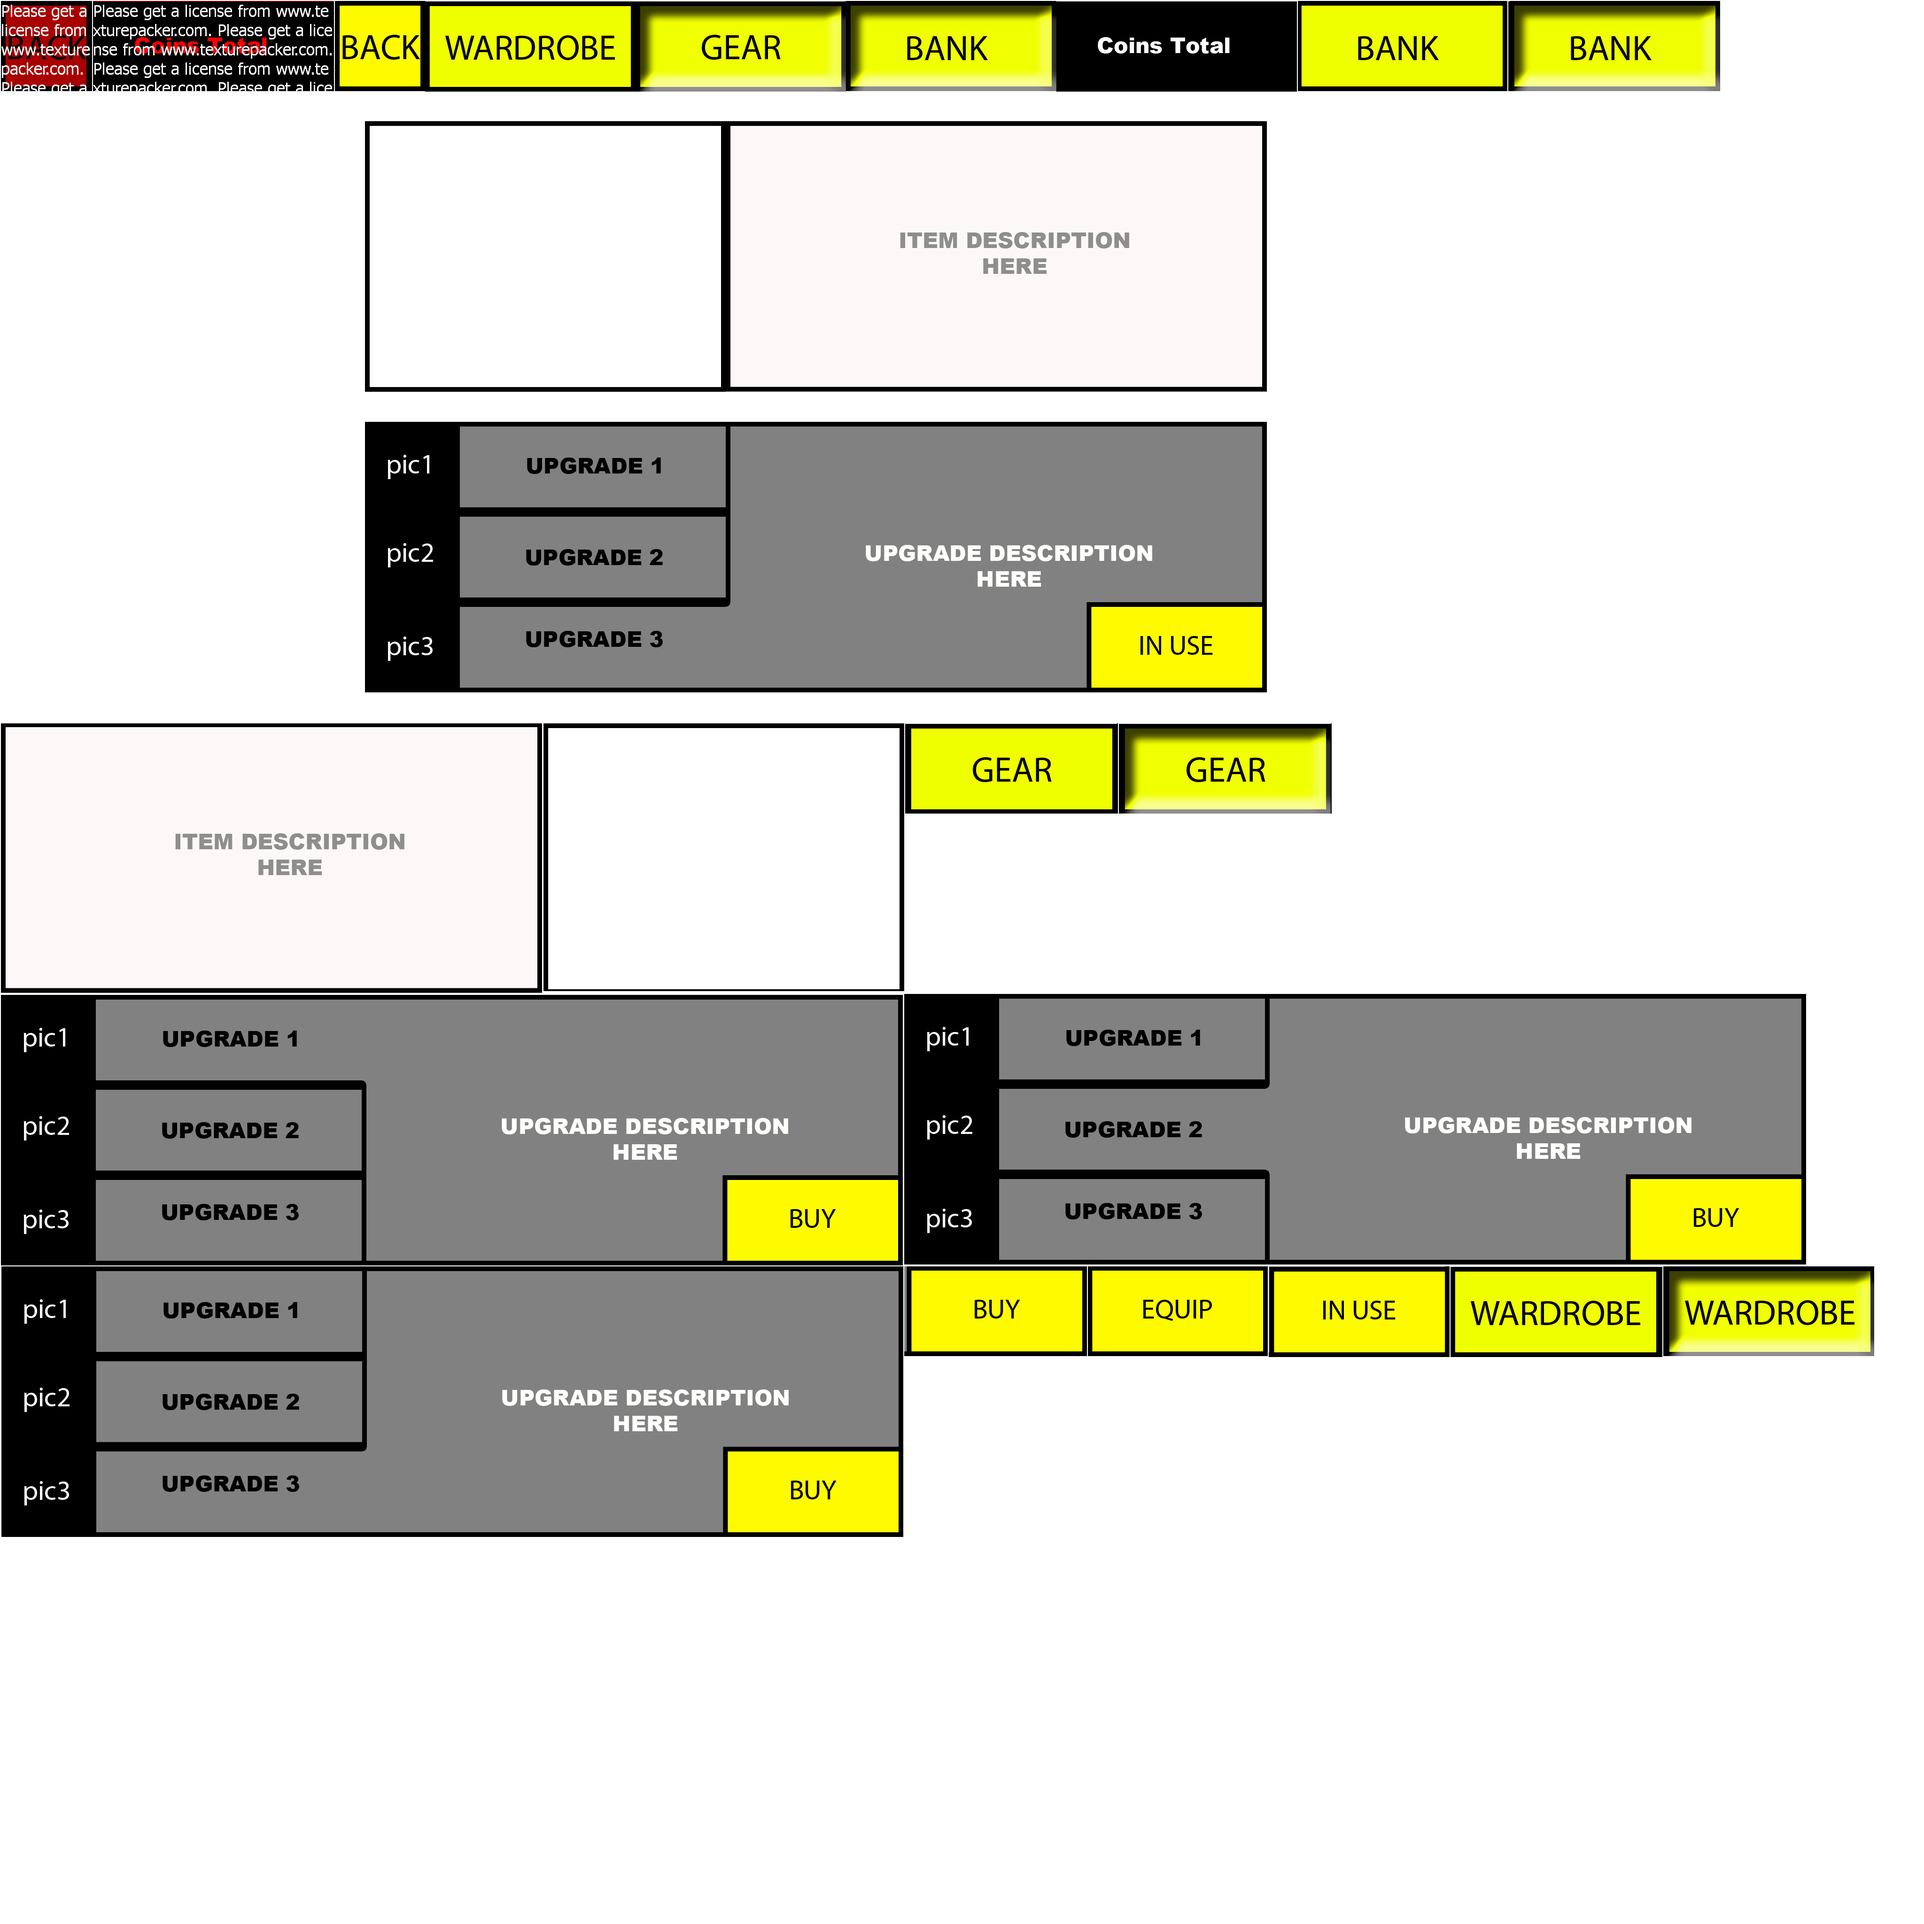
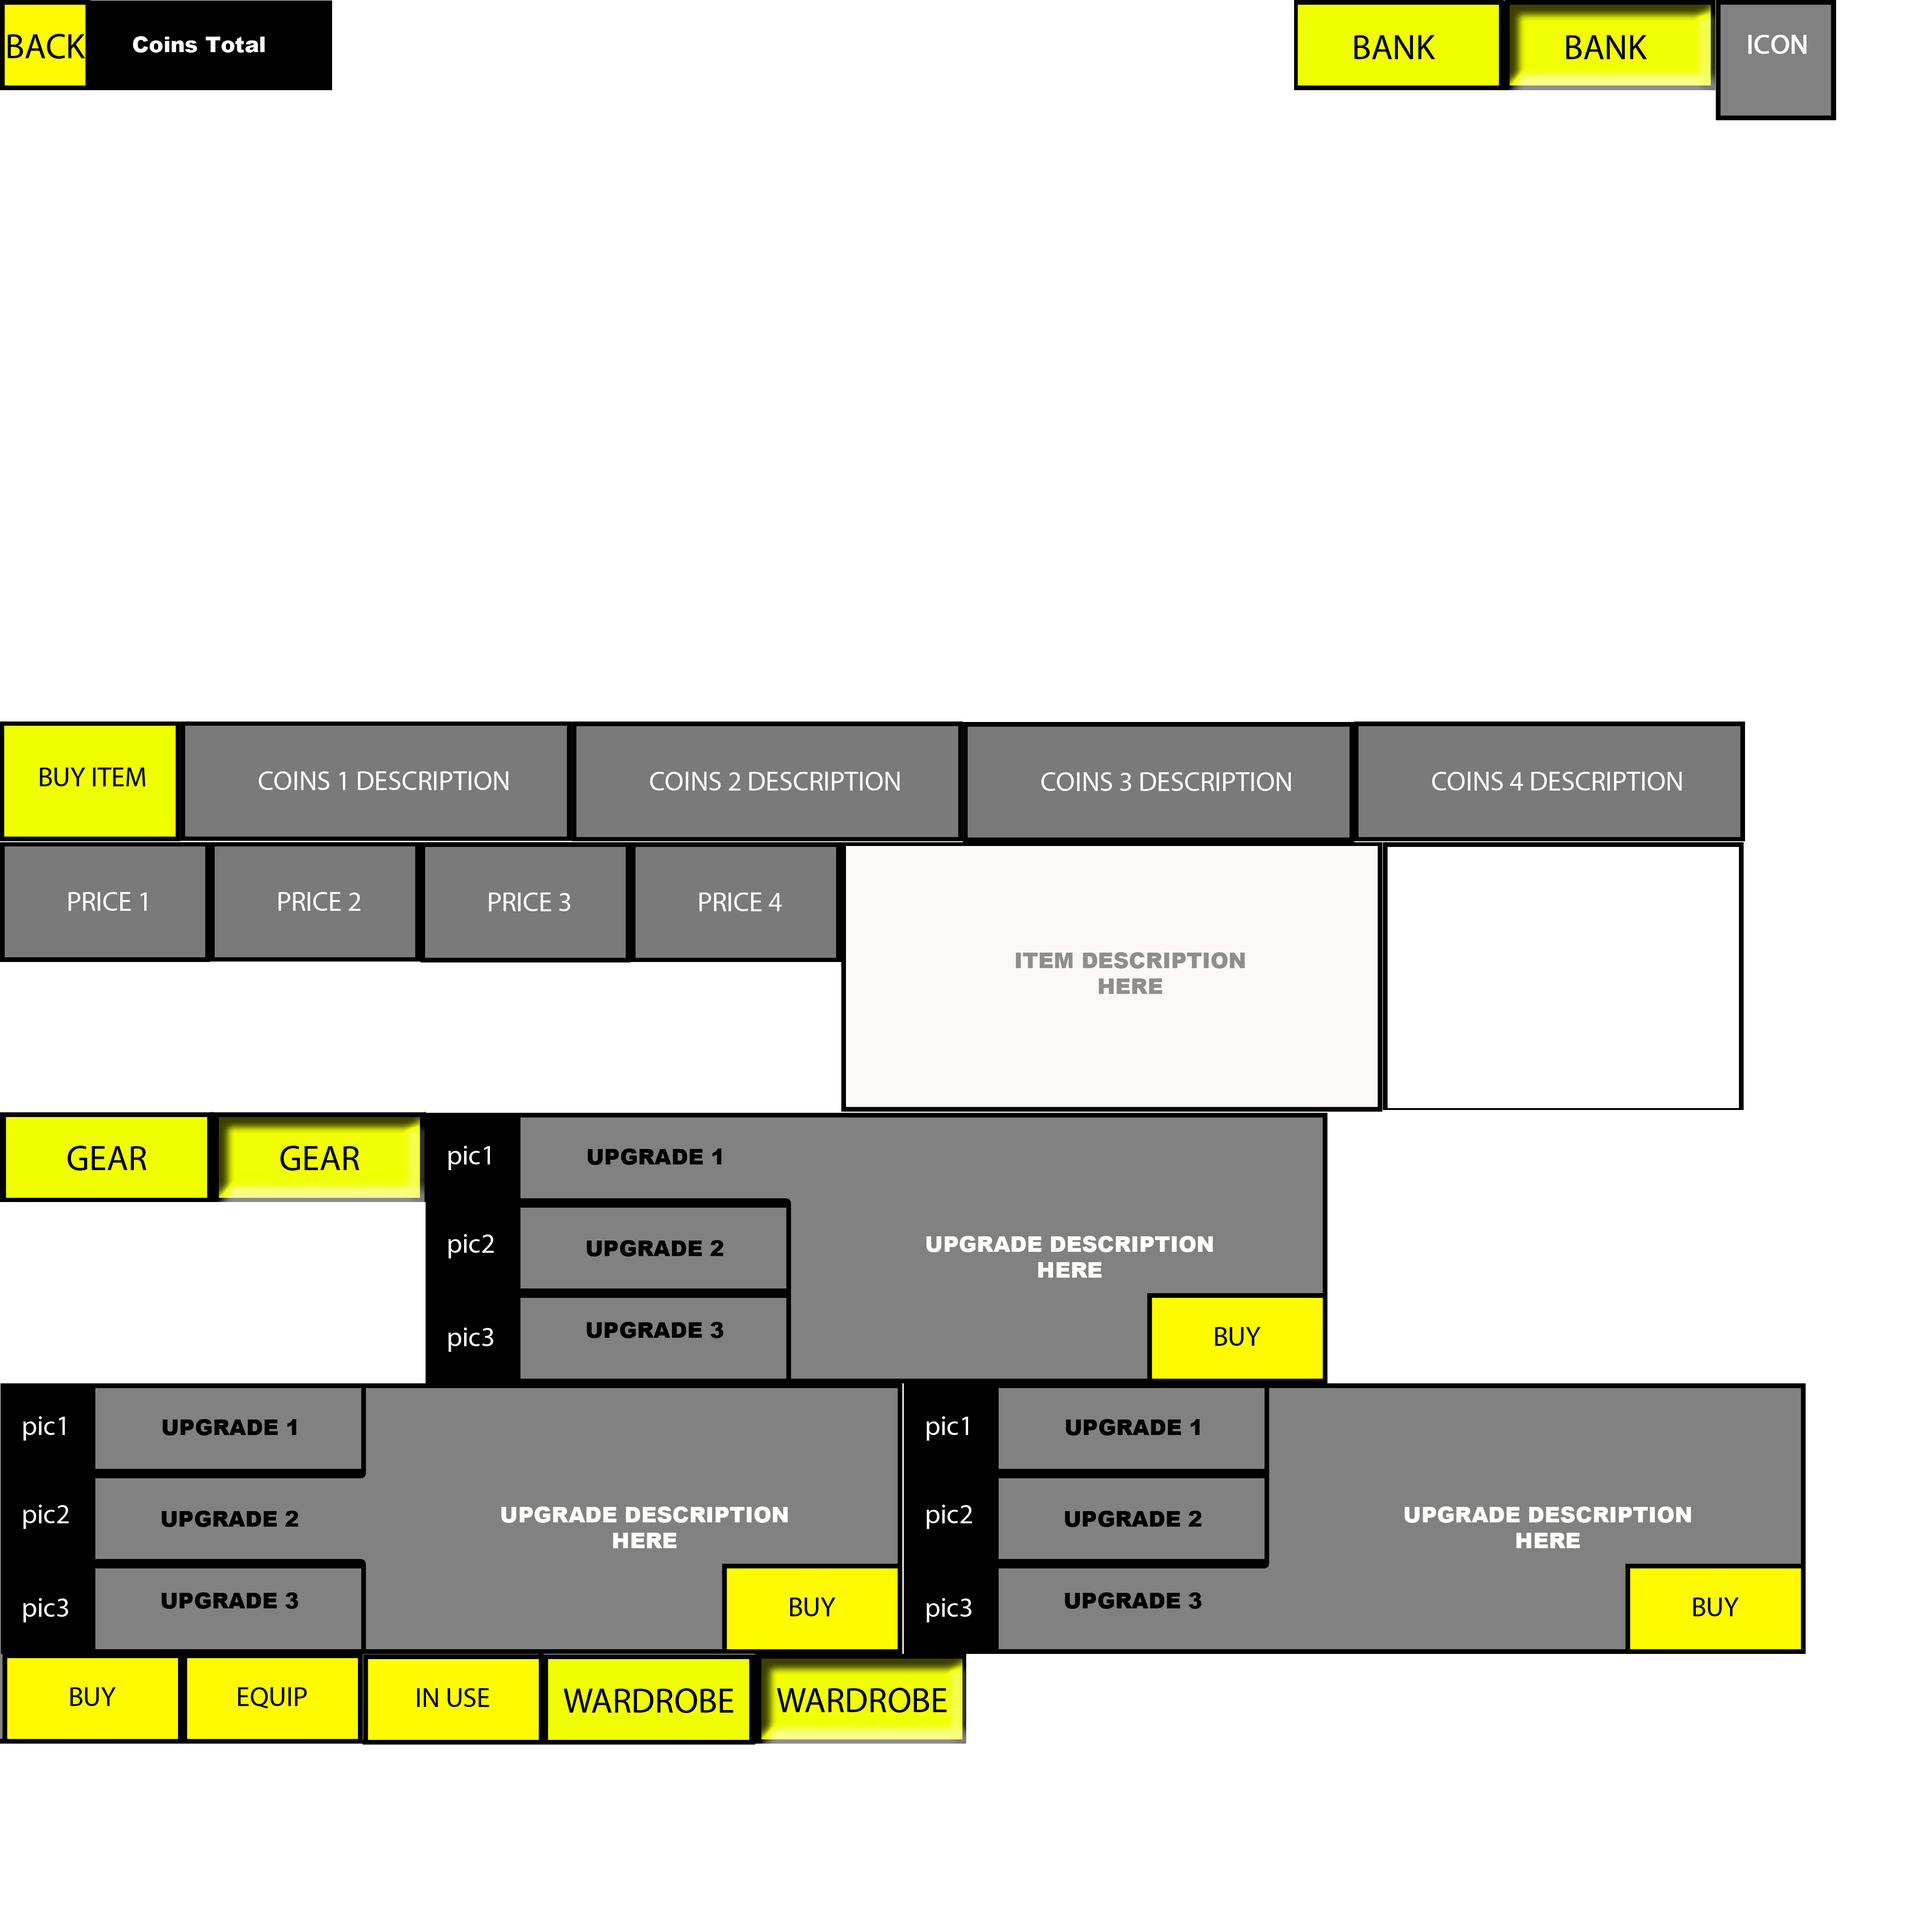
Updated latest WIP - store.cs, atlases etc.

diff --git a/Code/Development/Main/Assets/Scripts/FrontEnd/store.cs b/Code/Development/Main/Assets/Scripts/FrontEnd/store.cs
@@ -2,8 +2,9 @@ using UnityEngine;
 using System.Collections;
 
 public class store : MonoBehaviour {
+	
 #pragma warning disable 414
-//	FastGUIElement Store_Background;
+	FastGUIElement Store_Background;
 	/* FastGUIElement General_BackButton;
 	FastGUIButton BackButton;
 	FastGUIElement Store_Upgrade1Tab;
@@ -40,6 +41,7 @@ public class store : MonoBehaviour {
 	FastGUIElement Store_Upgrade1Tab;
 	FastGUIElement Store_Upgrade2Tab;
 	FastGUIElement Store_Upgrade3Tab;
+	FastGUIElement Store_GearEPIcon;
 #pragma warning restore 414
 
 	// Use this for initialization
@@ -48,6 +50,10 @@ public class store : MonoBehaviour {
 		
 		// The XML file containing the atlas UVs
 		FastGUIElement.uvxmlFile = @"assets//resources//Elvis_StoreAtlas.xml";
+		
+		Store_Background = new FastGUIElement (
+			new Vector2 (0, 0),
+			FastGUIElement.UVsFrom (@"Store_Background.png"));
 		
 		Store_WardrobeScreen = new FastGUIElement (
 			new Vector2 (192, 0),
@@ -95,6 +101,13 @@ public class store : MonoBehaviour {
 		
 		Store_Upgrade3Tab = new FastGUIElement (
 			new Vector2 (64, 896),
+			FastGUIElement.UVsFrom (@"Store_Upgrade3Tab.png"));
+		Store_Upgrade3Tab.SetDisplayed (false);
+		
+		//Gear Screen...
+		
+		Store_GearEPIcon = new FastGUIElement (
+			new Vector2 (64, 256),
 			FastGUIElement.UVsFrom (@"Store_Upgrade3Tab.png"));
 		Store_Upgrade3Tab.SetDisplayed (false);
 
